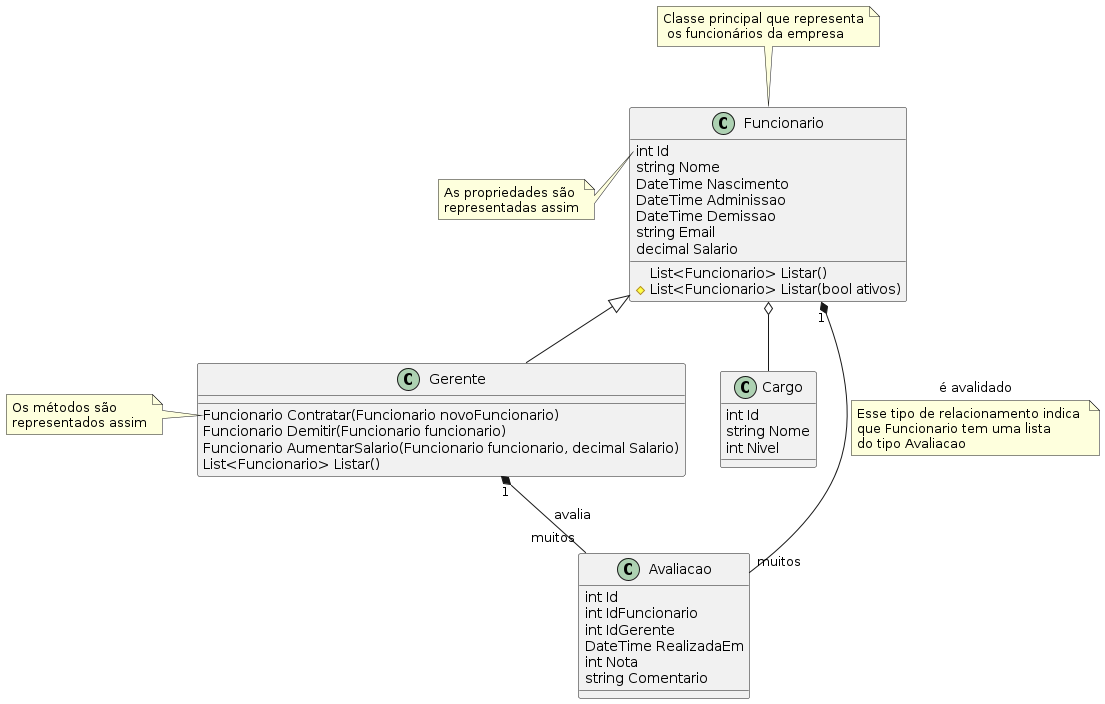
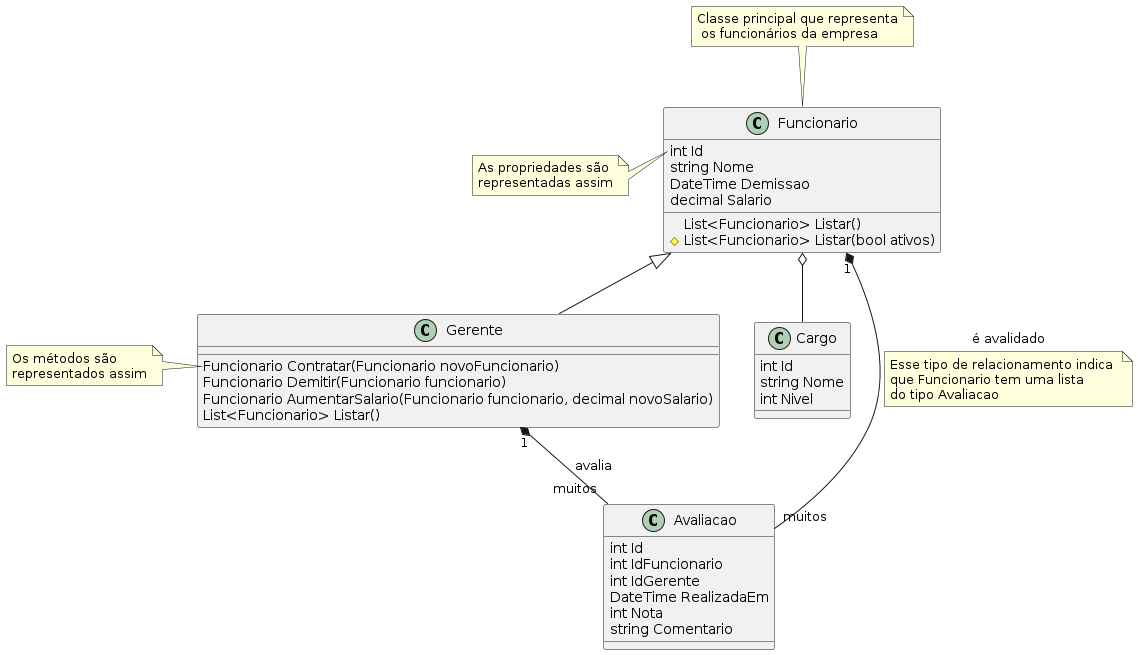
Simplificação

diff --git a/Aula 1/aula8.md b/Aula 1/aula8.md
@@ -90,7 +90,7 @@ Mas vamos para mais alguns detalhes.
 
 As informações que o sistema deve armazenar são:
 
-1. Funcionários: Nome completo, data de nascimento, email, cargo, salário, data de admissão e data de demissão.
+1. Funcionários: Nome completo, cargo, salário e data de demissão.
 2. Gerentes: Deve ter as mesmas informações dos funcionário.
 3. Avaliações: Funcionário avaliado, gerente avaliador, data da avaliação, nota (1 a 10) e comentário do avaliador
 4. Cargo: Nome e Nível (onde nível 1 = Funcionário e 2 = Gerente)
